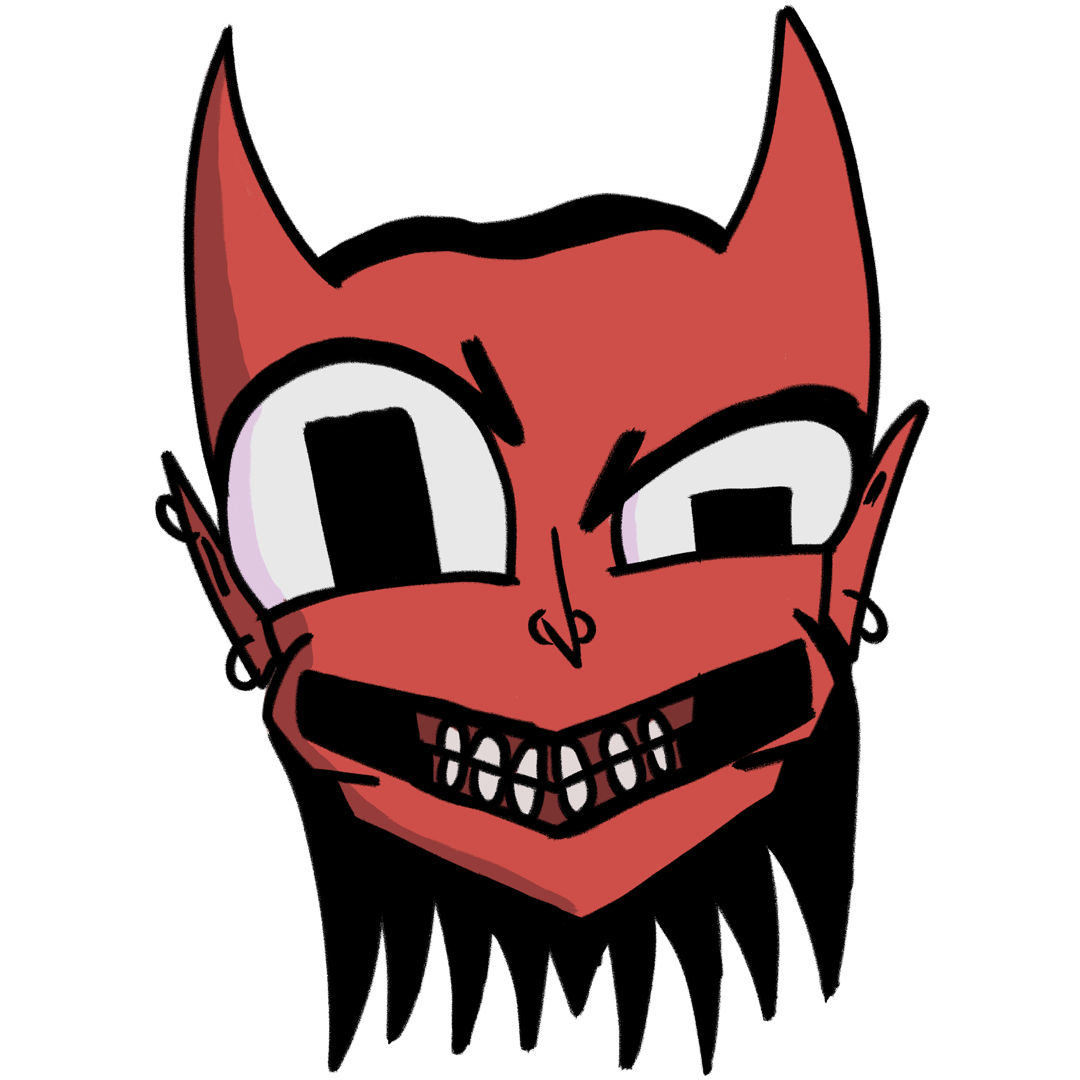
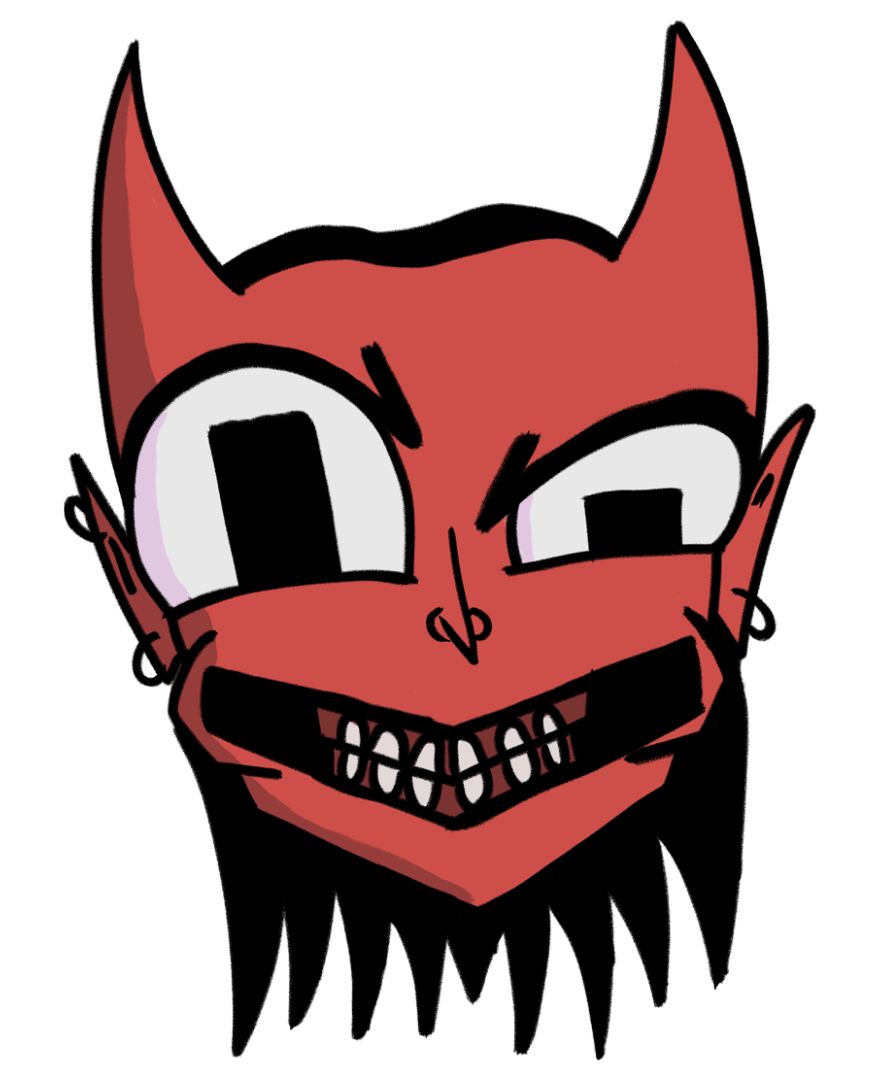
updated 404 error page content and css for mobile, tablet and desktop media query - changed img asset and fixed layout

Changed region(s): [[0.0614, 0.0, 0.9511, 1.0], [0.6443, 0.7639, 0.675, 0.7944]]

diff --git a/routes/404 Error/🎨404error-page.css b/routes/404 Error/🎨404error-page.css
@@ -1,7 +1,6 @@
 .error-404-page-root {
   width: 100vw;
   height: 100vh;
-  gap: 10px;
   overflow: hidden;
   display: flex;
   flex-direction: column;
@@ -10,7 +9,10 @@
 }
 
 .error-404-page-root img {
-  height: 300px;
+  height: 250px;
+  padding-bottom: 10%;
+  width: fit-content;
+  margin: 0 auto;
   object-fit: contain;
 }
 
@@ -30,7 +32,8 @@
 
 .error-404-page-CTA {
   display: flex;
-  margin: 10% auto;
+  margin: 0 auto;
+  padding-top: 15%;
 }
 
 /* ------------------------------------------------------------ TABLET QUERY --------------*/
@@ -39,7 +42,6 @@
   .error-404-page-root {
     width: 100vw;
     height: 100vh;
-    gap: 10px;
     overflow: hidden;
     display: flex;
     flex-direction: column;
@@ -48,14 +50,17 @@
   }
 
   .error-404-page-root img {
-    height: 400px;
+    height: 300px;
+    width: fit-content;
+    margin: 0 auto;
+    padding-bottom: 5%;
     object-fit: contain;
   }
 
   .error-404-page-root h2 {
     color: var(--main-color);
     text-align: center;
-    font-size: 32px;
+    font-size: 38px;
     width: 100%;
   }
 
@@ -68,7 +73,8 @@
 
   .error-404-page-CTA {
     display: flex;
-    margin: 10% auto;
+    margin: 0 auto;
+    padding-top: 7.5%;
   }
 }
 
@@ -78,7 +84,6 @@
   .error-404-page-root {
     width: 100vw;
     height: 100vh;
-    gap: 10px;
     overflow: hidden;
     display: flex;
     flex-direction: column;
@@ -87,8 +92,11 @@
   }
 
   .error-404-page-root img {
-    height: 400px;
+    height: 350px;
+    width: fit-content;
+    margin: 0 auto;
     object-fit: contain;
+    padding-bottom: 2.5%;
   }
 
   .error-404-page-root h2 {
@@ -107,6 +115,7 @@
 
   .error-404-page-CTA {
     display: flex;
-    margin: 5% auto;
+    margin: 0 auto;
+    padding-top: 5%;
   }
 }

diff --git a/routes/404 Error/404Error-page.tsx b/routes/404 Error/404Error-page.tsx
@@ -1,5 +1,5 @@
 import { useRouteError } from "react-router-dom";
-import error404pageIMG from "./../../src/assets/08_1080.png";
+import error404pageIMG from "./../../src/assets/06_resized.png";
 import "./🎨404error-page.css";
 import LinkButton from "../../components/custom-buttons/LinkButton";
 
